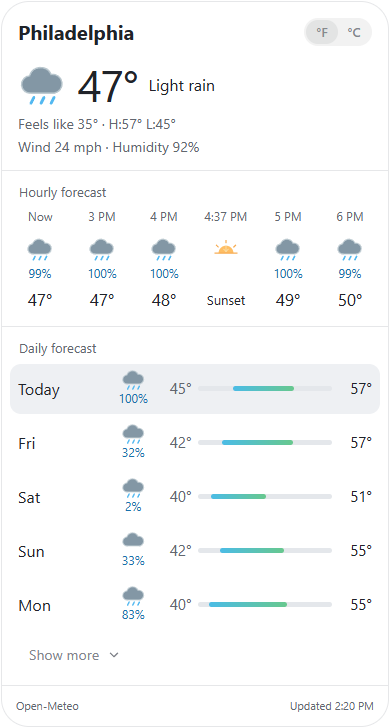
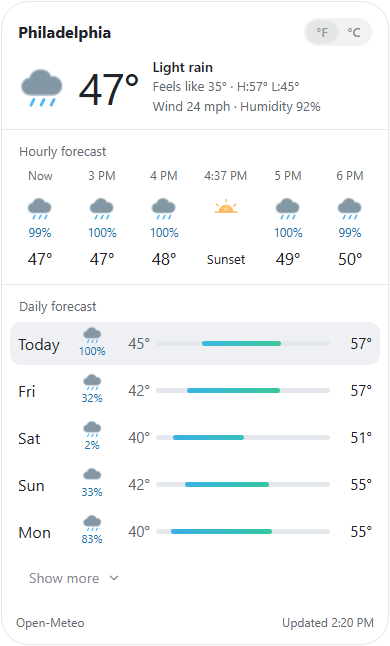
style: match reference layout (stacked hero text, compact rows, temperature-colored bars)

diff --git a/skills/weather-cards/scripts/card.html b/skills/weather-cards/scripts/card.html
@@ -4,8 +4,8 @@
 :root{color-scheme:light dark;--wc-bg:#f6f7f8;--wc-card:#fff;--wc-fg:#202329;--wc-muted:#62676f;--wc-line:#e6e7e9;--wc-selected:#eef0f3;--wc-track:#e4e7eb;--wc-blue:#1971ad;--wc-button:#e9ecf0}
 @media(prefers-color-scheme:dark){:root:not([data-theme=light]){--wc-bg:#131313;--wc-card:#202020;--wc-fg:#f4f4f5;--wc-muted:#a4a4aa;--wc-line:#323234;--wc-selected:#3b3b40;--wc-track:#414145;--wc-blue:#9dcafa;--wc-button:#343438}}
 :root[data-theme=dark]{--wc-bg:#131313;--wc-card:#202020;--wc-fg:#f4f4f5;--wc-muted:#a4a4aa;--wc-line:#323234;--wc-selected:#3b3b40;--wc-track:#414145;--wc-blue:#9dcafa;--wc-button:#343438}
-*{box-sizing:border-box}html,body{background:transparent}body{margin:0;padding:1px;color:var(--foreground,var(--wc-fg));font:15px/1.45 -apple-system,BlinkMacSystemFont,"Segoe UI",sans-serif}.card{max-width:640px;min-width:0;margin:0;border:1px solid var(--border,var(--wc-line));border-radius:28px;overflow:hidden;background:var(--card,var(--wc-card));color:var(--card-foreground,var(--wc-fg))}.current{padding:18px 18px 14px}header{display:flex;align-items:center;gap:12px;justify-content:space-between;margin-bottom:12px}h1{font-size:20px;line-height:1.2;margin:0;font-weight:650;overflow-wrap:anywhere;min-width:0}.units{display:flex;gap:3px;flex-shrink:0}button{font:inherit;color:inherit;border:0;cursor:pointer}button:focus-visible,a:focus-visible,.hours:focus-visible{outline:2px solid #38bdf8;outline-offset:2px}.units button{width:42px;height:40px;border-radius:24px;background:transparent;color:var(--muted-foreground,var(--wc-muted))}.units [aria-pressed=true]{background:var(--wc-button);color:var(--wc-fg)}.hero{display:flex;gap:14px;align-items:center}.hero .icon{width:49px;height:49px}.temp{font-size:46px;line-height:1.2;letter-spacing:-1.5px;font-weight:450}.condition{font-size:18px}.detail{color:var(--muted-foreground,var(--wc-muted));margin-top:3px;font-size:14px}.section{border-top:1px solid var(--border,var(--wc-line));padding:12px 8px 14px}.label{font-size:13px;font-weight:400;color:var(--muted-foreground,var(--wc-muted));margin:0 9px 6px}.hours{display:flex;gap:2px;overflow-x:auto;overscroll-behavior-x:contain;padding:0 1px 5px;scrollbar-width:thin;scrollbar-color:var(--wc-track) transparent;scroll-snap-type:x proximity}.hour{flex:0 0 60px;text-align:center;scroll-snap-align:start}.hour-time{font-size:12px;color:var(--muted-foreground,var(--wc-muted));white-space:nowrap;height:25px}.icon{width:28px;height:28px;display:inline-block;vertical-align:middle}.hour .icon{margin:2px 0}.pop{color:var(--wc-blue);font-size:12px;min-height:18px}.hour-temp{font-size:17px;margin-top:4px}.hour.sun .hour-temp{font-size:13px;margin-top:8px}.day{display:grid;grid-template-columns:minmax(45px,1fr) 43px 39px minmax(55px,1.6fr) 40px;align-items:center;gap:8px;min-height:50px;padding:3px 9px;border-radius:11px}.day.selected{background:var(--wc-selected)}button.day{width:100%;border:0;font:inherit;color:inherit;text-align:left;background:transparent;cursor:pointer}button.day:hover:not(.selected){background:color-mix(in srgb,var(--wc-selected) 55%,transparent)}button.day:focus-visible{outline:2px solid var(--wc-blue,#5ab8f0);outline-offset:-2px}.day-name{font-size:16px}.daily-weather{text-align:center;line-height:1.1}.daily-weather .icon{width:25px;height:25px}.low{text-align:right;color:var(--muted-foreground,var(--wc-muted))}.high{text-align:right}.track{height:5px;border-radius:10px;background:var(--wc-track);position:relative;overflow:hidden}.range{position:absolute;top:0;height:100%;min-width:2px;border-radius:10px;background:linear-gradient(90deg,#4bbce6,#67c88e)}.more{background:transparent;color:var(--muted-foreground,var(--wc-muted));margin:9px 0 0 7px;padding:6px 12px;border:0;border-radius:999px;font:inherit;font-size:14px;display:inline-flex;align-items:center;gap:8px;line-height:20px;cursor:pointer;transition:background-color .15s ease,color .15s ease}.more:hover,.more:focus-visible{background:var(--wc-selected);color:var(--foreground,var(--wc-fg))}.more:focus-visible{outline:2px solid var(--wc-blue);outline-offset:1px}.more svg{width:14px;height:14px;display:block;flex:none}.more[aria-expanded=true] svg{transform:rotate(180deg)}.footer{border-top:1px solid var(--border,var(--wc-line));padding:12px 16px;color:var(--muted-foreground,var(--wc-muted));font-size:11px}.footer-line{display:flex;gap:10px;justify-content:space-between;flex-wrap:wrap}.footer a{color:inherit;text-decoration:none}.footer a:hover{text-decoration:underline}.note{margin-top:5px;font-size:10px}.provenance{margin-top:5px}.provenance summary{cursor:pointer;font-size:10px}.footer{padding-top:9px;padding-bottom:9px}.error{padding:20px;color:var(--wc-fg)}[hidden]{display:none!important}@media(max-width:390px){.current{padding:16px 16px 13px}.day{gap:6px;padding:3px 8px;grid-template-columns:minmax(43px,1fr) 39px 33px minmax(48px,1.5fr) 34px}.condition{font-size:16px}.temp{font-size:44px}.hero{gap:11px}.footer{padding:12px 14px}}
-.hours-wrap{position:relative}.hours{touch-action:pan-x pan-y;scrollbar-width:none;-ms-overflow-style:none;padding-bottom:0}.hours::-webkit-scrollbar{display:none}.hour-nav{position:absolute;top:50%;z-index:2;width:30px;height:30px;margin-top:-15px;border-radius:50%;display:grid;place-items:center;background:color-mix(in srgb,var(--card,var(--wc-card)) 82%,var(--foreground,var(--wc-fg)) 18%);color:var(--foreground,var(--wc-fg));box-shadow:0 2px 10px rgba(0,0,0,.22)}.hour-nav svg{width:15px;height:15px;fill:none;stroke:currentColor;stroke-width:1.8;stroke-linecap:round;stroke-linejoin:round}.hour-nav.prev{left:2px}.hour-nav.next{right:2px}.hour-nav{opacity:0;pointer-events:none;transition:opacity .15s ease}.hours-wrap:hover .hour-nav,.hours-wrap:focus-within .hour-nav{opacity:1;pointer-events:auto}@media(hover:none){.hour-nav{display:none!important}.hours{scroll-snap-type:x proximity;-webkit-overflow-scrolling:touch;overscroll-behavior-x:contain}.hour{scroll-snap-align:start}}.hour-nav[hidden]{display:none}#days{display:flex;flex-direction:column;gap:4px}@media(hover:hover) and (pointer:fine){.units{gap:0;padding:2px;border-radius:999px;background:color-mix(in srgb,var(--foreground,var(--wc-fg)) 6%,transparent)}.units button{width:32px;height:24px;font-weight:500;border-radius:999px;font-size:13px;transition:background-color .15s ease,color .15s ease,box-shadow .15s ease}.units [aria-pressed=true]{background:color-mix(in srgb,var(--foreground,var(--wc-fg)) 13%,transparent);color:var(--foreground,var(--wc-fg));box-shadow:none}.units button:not([aria-pressed=true]):hover{color:var(--foreground,var(--wc-fg))}}</style></head><body><main class="card" aria-label="Weather forecast"><section class="current"><header><h1 id="city">__TITLE__</h1><div class="units" role="group" aria-label="Temperature units"><button id="fahrenheit" aria-pressed="true" aria-label="Fahrenheit">°F</button><button id="celsius" aria-pressed="false" aria-label="Celsius">°C</button></div></header><div class="hero" id="hero"></div><div class="detail" id="feels"></div><div class="detail" id="wind"></div></section><section class="section"><h2 class="label" id="hours-label">Hourly forecast</h2><div class="hours-wrap"><button class="hour-nav prev" id="hours-prev" aria-label="Earlier hours" hidden><svg viewBox="0 0 16 16" aria-hidden="true"><path d="m10 3-5 5 5 5"/></svg></button><div class="hours" id="hours" tabindex="0" aria-label="Hourly forecast"></div><button class="hour-nav next" id="hours-next" aria-label="Later hours"><svg viewBox="0 0 16 16" aria-hidden="true"><path d="m6 3 5 5-5 5"/></svg></button></div></section><section class="section"><h2 class="label">Daily forecast</h2><div id="days"></div><button class="more" id="more" aria-expanded="false" aria-controls="days">Show more <span aria-hidden="true">⌄</span></button></section><footer class="footer"><div class="footer-line"><a href="https://open-meteo.com/" target="_blank" rel="noopener noreferrer">Open-Meteo</a><span id="valid"></span></div></footer></main>
+*{box-sizing:border-box}html,body{background:transparent}body{margin:0;padding:1px;color:var(--foreground,var(--wc-fg));font:15px/1.45 -apple-system,BlinkMacSystemFont,"Segoe UI",sans-serif}.card{max-width:640px;min-width:0;margin:0;border:1px solid var(--border,var(--wc-line));border-radius:28px;overflow:hidden;background:var(--card,var(--wc-card));color:var(--card-foreground,var(--wc-fg))}.current{padding:18px 18px 14px}header{display:flex;align-items:center;gap:12px;justify-content:space-between;margin-bottom:12px}h1{font-size:20px;line-height:1.2;margin:0;font-weight:650;overflow-wrap:anywhere;min-width:0}.units{display:flex;gap:3px;flex-shrink:0}button{font:inherit;color:inherit;border:0;cursor:pointer}button:focus-visible,a:focus-visible,.hours:focus-visible{outline:2px solid #38bdf8;outline-offset:2px}.units button{width:42px;height:40px;border-radius:24px;background:transparent;color:var(--muted-foreground,var(--wc-muted))}.units [aria-pressed=true]{background:var(--wc-button);color:var(--wc-fg)}.hero{display:flex;gap:14px;align-items:center}.hero .icon{width:49px;height:49px}.temp{font-size:46px;line-height:1.2;letter-spacing:-1.5px;font-weight:450}.condition{font-size:18px}.detail{color:var(--muted-foreground,var(--wc-muted));margin-top:3px;font-size:14px}.section{border-top:1px solid var(--border,var(--wc-line));padding:12px 8px 14px}.label{font-size:13px;font-weight:400;color:var(--muted-foreground,var(--wc-muted));margin:0 9px 6px}.hours{display:flex;gap:2px;overflow-x:auto;overscroll-behavior-x:contain;padding:0 1px 5px;scrollbar-width:thin;scrollbar-color:var(--wc-track) transparent;scroll-snap-type:x proximity}.hour{flex:0 0 60px;text-align:center;scroll-snap-align:start}.hour-time{font-size:12px;color:var(--muted-foreground,var(--wc-muted));white-space:nowrap;height:25px}.icon{width:28px;height:28px;display:inline-block;vertical-align:middle}.hour .icon{margin:2px 0}.pop{color:var(--wc-blue);font-size:12px;min-height:18px}.hour-temp{font-size:17px;margin-top:4px}.hour.sun .hour-temp{font-size:13px;margin-top:8px}.day{display:grid;grid-template-columns:76px 40px 40px minmax(60px,1fr) 42px;align-items:center;gap:8px;min-height:50px;padding:3px 9px;border-radius:11px}.day.selected{background:var(--wc-selected)}button.day{width:100%;border:0;font:inherit;color:inherit;text-align:left;background:transparent;cursor:pointer}button.day:hover:not(.selected){background:color-mix(in srgb,var(--wc-selected) 55%,transparent)}button.day:focus-visible{outline:2px solid var(--wc-blue,#5ab8f0);outline-offset:-2px}.day-name{font-size:16px}.daily-weather{text-align:center;line-height:1.1;padding:2px 0}.daily-weather .icon{width:25px;height:25px}.low{text-align:right;color:var(--muted-foreground,var(--wc-muted))}.high{text-align:right}.track{height:5px;border-radius:10px;background:var(--wc-track);position:relative;overflow:hidden}.range{position:absolute;top:0;height:100%;min-width:2px;border-radius:10px;background:linear-gradient(90deg,#4bbce6,#67c88e)}.more{background:transparent;color:var(--muted-foreground,var(--wc-muted));margin:9px 0 0 7px;padding:6px 12px;border:0;border-radius:999px;font:inherit;font-size:14px;display:inline-flex;align-items:center;gap:8px;line-height:20px;cursor:pointer;transition:background-color .15s ease,color .15s ease}.more:hover,.more:focus-visible{background:var(--wc-selected);color:var(--foreground,var(--wc-fg))}.more:focus-visible{outline:2px solid var(--wc-blue);outline-offset:1px}.more svg{width:14px;height:14px;display:block;flex:none}.more[aria-expanded=true] svg{transform:rotate(180deg)}.footer{border-top:1px solid var(--border,var(--wc-line));padding:12px 16px;color:var(--muted-foreground,var(--wc-muted));font-size:11px}.footer-line{display:flex;gap:10px;justify-content:space-between;flex-wrap:wrap}.footer a{color:inherit;text-decoration:none}.footer a:hover{text-decoration:underline}.note{margin-top:5px;font-size:10px}.provenance{margin-top:5px}.provenance summary{cursor:pointer;font-size:10px}.footer{padding-top:9px;padding-bottom:9px}.error{padding:20px;color:var(--wc-fg)}[hidden]{display:none!important}@media(max-width:390px){.current{padding:16px 16px 13px}.day{gap:6px;padding:3px 8px;grid-template-columns:50px 36px 34px minmax(44px,1fr) 36px}.condition{font-size:16px}.temp{font-size:44px}.hero{gap:11px}.footer{padding:12px 14px}}
+.hours-wrap{position:relative}.hours{touch-action:pan-x pan-y;scrollbar-width:none;-ms-overflow-style:none;padding-bottom:0}.hours::-webkit-scrollbar{display:none}.hour-nav{position:absolute;top:50%;z-index:2;width:30px;height:30px;margin-top:-15px;border-radius:50%;display:grid;place-items:center;background:color-mix(in srgb,var(--card,var(--wc-card)) 82%,var(--foreground,var(--wc-fg)) 18%);color:var(--foreground,var(--wc-fg));box-shadow:0 2px 10px rgba(0,0,0,.22)}.hour-nav svg{width:15px;height:15px;fill:none;stroke:currentColor;stroke-width:1.8;stroke-linecap:round;stroke-linejoin:round}.hour-nav.prev{left:2px}.hour-nav.next{right:2px}.hour-nav{opacity:0;pointer-events:none;transition:opacity .15s ease}.hours-wrap:hover .hour-nav,.hours-wrap:focus-within .hour-nav{opacity:1;pointer-events:auto}@media(hover:none){.hour-nav{display:none!important}.hours{scroll-snap-type:x proximity;-webkit-overflow-scrolling:touch;overscroll-behavior-x:contain}.hour{scroll-snap-align:start}}.hour-nav[hidden]{display:none}#days{display:flex;flex-direction:column;gap:4px}@media(hover:hover) and (pointer:fine){.units{gap:0;padding:2px;border-radius:999px;background:color-mix(in srgb,var(--foreground,var(--wc-fg)) 6%,transparent)}.units button{width:32px;height:24px;font-weight:500;border-radius:999px;font-size:13px;transition:background-color .15s ease,color .15s ease,box-shadow .15s ease}.units [aria-pressed=true]{background:color-mix(in srgb,var(--foreground,var(--wc-fg)) 13%,transparent);color:var(--foreground,var(--wc-fg));box-shadow:none}.units button:not([aria-pressed=true]):hover{color:var(--foreground,var(--wc-fg))}}.hero{gap:14px;align-items:center}.hero-main{display:flex;align-items:center;gap:12px;flex:none}.hero-text{min-width:0;display:flex;flex-direction:column;gap:1px}.hero-text .detail{margin-top:0}.condition{font-size:15px;font-weight:600;line-height:1.3}h1{font-size:16px}.day{min-height:42px}.footer{border-top:0;padding-top:6px;padding-bottom:12px}.daily-weather .icon{width:21px;height:21px}.daily-weather .pop{font-size:11px;line-height:1.1}.daily-weather{padding:0}.day{min-height:40px;padding-top:2px;padding-bottom:2px}.footer{font-size:12px}@media(max-width:390px){.hero-text .detail{font-size:13px}.condition{font-size:14px}}</style></head><body><main class="card" aria-label="Weather forecast"><section class="current"><header><h1 id="city">__TITLE__</h1><div class="units" role="group" aria-label="Temperature units"><button id="fahrenheit" aria-pressed="true" aria-label="Fahrenheit">°F</button><button id="celsius" aria-pressed="false" aria-label="Celsius">°C</button></div></header><div class="hero"><div class="hero-main" id="hero"></div><div class="hero-text"><div class="condition" id="cond"></div><div class="detail" id="feels"></div><div class="detail" id="wind"></div></div></div></section><section class="section"><h2 class="label" id="hours-label">Hourly forecast</h2><div class="hours-wrap"><button class="hour-nav prev" id="hours-prev" aria-label="Earlier hours" hidden><svg viewBox="0 0 16 16" aria-hidden="true"><path d="m10 3-5 5 5 5"/></svg></button><div class="hours" id="hours" tabindex="0" aria-label="Hourly forecast"></div><button class="hour-nav next" id="hours-next" aria-label="Later hours"><svg viewBox="0 0 16 16" aria-hidden="true"><path d="m6 3 5 5-5 5"/></svg></button></div></section><section class="section"><h2 class="label">Daily forecast</h2><div id="days"></div><button class="more" id="more" aria-expanded="false" aria-controls="days">Show more <span aria-hidden="true">⌄</span></button></section><footer class="footer"><div class="footer-line"><a href="https://open-meteo.com/" target="_blank" rel="noopener noreferrer">Open-Meteo</a><span id="valid"></span></div></footer></main>
 <script id="weather-data" type="application/json">__DATA__</script>
 <script>
 'use strict';
@@ -34,17 +34,19 @@ function icon(code,day=true,event=null){
  else shapes='<text x="16" y="24" fill="#9ba6b3" text-anchor="middle">?</text>';
  return '<svg class="icon" viewBox="0 0 32 34" role="img" aria-label="'+name+'"><title>'+name+'</title>'+shapes+'</svg>';
 }
+// Bar color follows actual temperature (C), so cold days read blue and warm days green to orange.
+function tempColor(c){const stops=[[-10,[94,129,244]],[0,[64,156,240]],[7,[56,184,226]],[13,[52,199,160]],[20,[118,205,92]],[26,[240,196,70]],[32,[245,134,60]],[38,[232,84,70]]];if(c<=stops[0][0])return 'rgb('+stops[0][1]+')';for(let i=1;i<stops.length;i++){const[a,ca]=stops[i-1],[b,cb]=stops[i];if(c<=b){const t=(c-a)/(b-a);return 'rgb('+ca.map((v,j)=>Math.round(v+(cb[j]-v)*t))+')'}}return 'rgb('+stops[stops.length-1][1]+')'}
 function el(tag,cls,text){let n=document.createElement(tag);if(cls)n.className=cls;if(text!==undefined)n.textContent=text;return n;}
 function paint(){
  $('fahrenheit').setAttribute('aria-pressed',unit==='F');$('celsius').setAttribute('aria-pressed',unit==='C');
  const c=D.current,today=D.daily.find(d=>dateKey(d.time)===dateKey(D.source_time)),sel=selected===null?null:D.daily.find(d=>d.time===selected);
  if(!sel){
-  $('hero').innerHTML=icon(c.weather_code,c.is_day)+'<span class="temp">'+degree(c.temperature_2m)+'</span><span class="condition">'+(weatherNames[c.weather_code]||'Unknown conditions')+'</span>';
+  $('hero').innerHTML=icon(c.weather_code,c.is_day)+'<span class="temp">'+degree(c.temperature_2m)+'</span>';$('cond').textContent=weatherNames[c.weather_code]||'Unknown conditions';
   $('feels').textContent='Feels like '+degree(c.apparent_temperature)+' · H:'+degree(today?.temperature_2m_max)+' L:'+degree(today?.temperature_2m_min);
   $('wind').textContent='Wind '+(missing(c.wind_speed_10m)?'—':Math.round(unit==='F'?c.wind_speed_10m/1.609344:c.wind_speed_10m))+' '+(unit==='F'?'mph':'km/h')+' · Humidity '+percent(c.relative_humidity_2m);
   $('hours-label').textContent='Hourly forecast';
  }else{
-  $('hero').innerHTML=icon(sel.weather_code,true)+'<span class="temp">'+degree(sel.temperature_2m_max)+'</span><span class="condition">'+(weatherNames[sel.weather_code]||'Unknown conditions')+'</span>';
+  $('hero').innerHTML=icon(sel.weather_code,true)+'<span class="temp">'+degree(sel.temperature_2m_max)+'</span>';$('cond').textContent=weatherNames[sel.weather_code]||'Unknown conditions';
   $('feels').textContent=fmt(sel.time,{weekday:'long'})+' · H:'+degree(sel.temperature_2m_max)+' L:'+degree(sel.temperature_2m_min);
   $('wind').textContent='Chance of precipitation '+percent(sel.precipitation_probability_max);
   $('hours-label').textContent=fmt(sel.time,{weekday:'long'});
@@ -70,7 +72,7 @@ function paint(){
   const track=el('div','track');track.setAttribute('aria-hidden','true');
   if(!missing(d.temperature_2m_min)&&!missing(d.temperature_2m_max)){
    const bar=el('div','range'),span=hi-lo;
-   bar.style.left=(span?(d.temperature_2m_min-lo)/span*100:0)+'%';bar.style.width=(span?(d.temperature_2m_max-d.temperature_2m_min)/span*100:100)+'%';track.append(bar);
+   bar.style.background='linear-gradient(90deg,'+tempColor(d.temperature_2m_min)+','+tempColor(d.temperature_2m_max)+')';bar.style.left=(span?(d.temperature_2m_min-lo)/span*100:0)+'%';bar.style.width=(span?(d.temperature_2m_max-d.temperature_2m_min)/span*100:100)+'%';track.append(bar);
   }row.append(track,el('div','high',degree(d.temperature_2m_max)));$('days').append(row);
  }
  if(!D.daily.length)$('days').append(el('div','detail','Daily forecast unavailable'));
